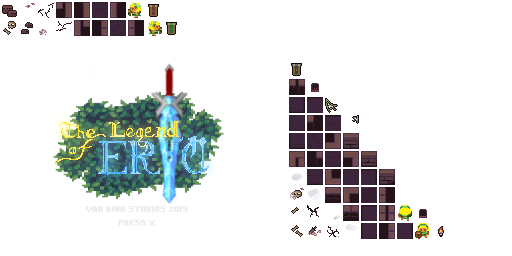
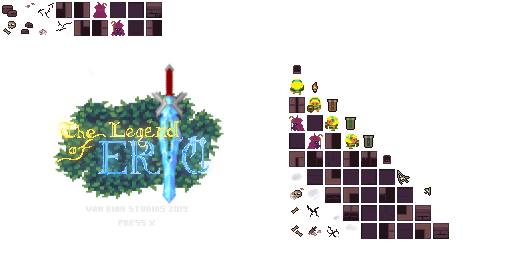
Add mob sprite.

Changed region(s): [[0.5625, 0.25, 0.875, 0.9375], [0.1562, 0.0, 0.3438, 0.1562]]

diff --git a/core/src/com/ericc/the/game/Media.java b/core/src/com/ericc/the/game/Media.java
@@ -11,6 +11,7 @@ public class Media {
     public static ArrayList<TextureRegion> floors, wallUp, wallDown, wallLeft, wallRight, clutter, wallClutter, floorsRev;
     public static TextureRegion wallLU, wallRU, wallLD, wallRD;
     public static TextureRegion playerFront, playerLeft, playerRight, playerBack;
+    public static TextureRegion mobFront, mobLeft, mobRight, mobBack;
     public static TextureAtlas atlas;
     public static int floorsConfiguration;
 
@@ -91,6 +92,11 @@ public class Media {
         playerBack = atlas.findRegion("testhero_back");
         playerLeft = atlas.findRegion("testhero_left");
         playerRight = atlas.findRegion("testhero_right");
+
+        mobFront = atlas.findRegion("mage_front");
+        mobBack = atlas.findRegion("mage_back");
+        mobLeft = atlas.findRegion("mage_left");
+        mobRight = atlas.findRegion("mage_right");
     }
 
     public static void dispose() {

diff --git a/core/src/com/ericc/the/game/entities/Mob.java b/core/src/com/ericc/the/game/entities/Mob.java
@@ -9,7 +9,7 @@ import com.ericc.the.game.components.*;
 
 public class Mob extends Entity {
     public Mob(int x, int y) {
-        SpriteSheetComponent renderable = new SpriteSheetComponent(Media.playerBack, Media.playerRight, Media.playerFront, Media.playerLeft);
+        SpriteSheetComponent renderable = new SpriteSheetComponent(Media.mobBack, Media.mobRight, Media.mobFront, Media.mobLeft);
         renderable.sprite.setOrigin(0, -0.35f);
         add(new PositionComponent(x, y));
         add(renderable);
